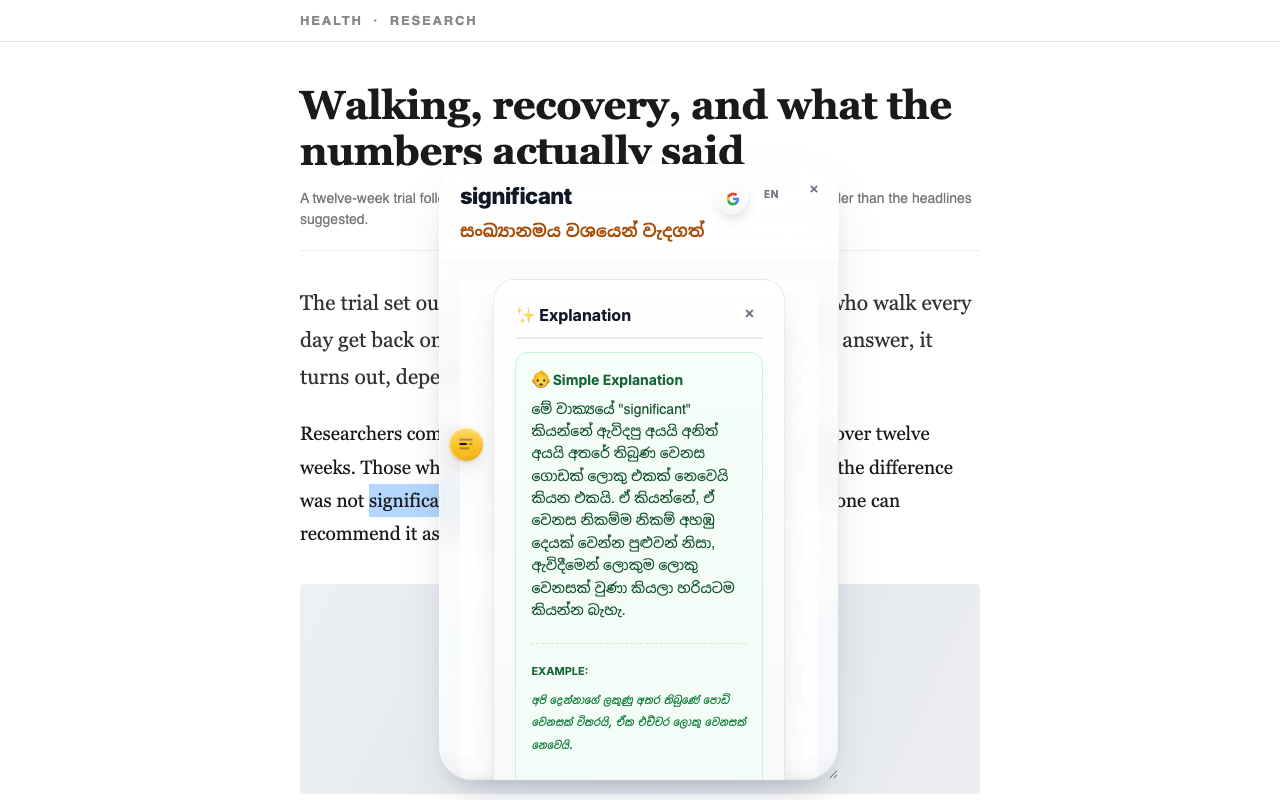
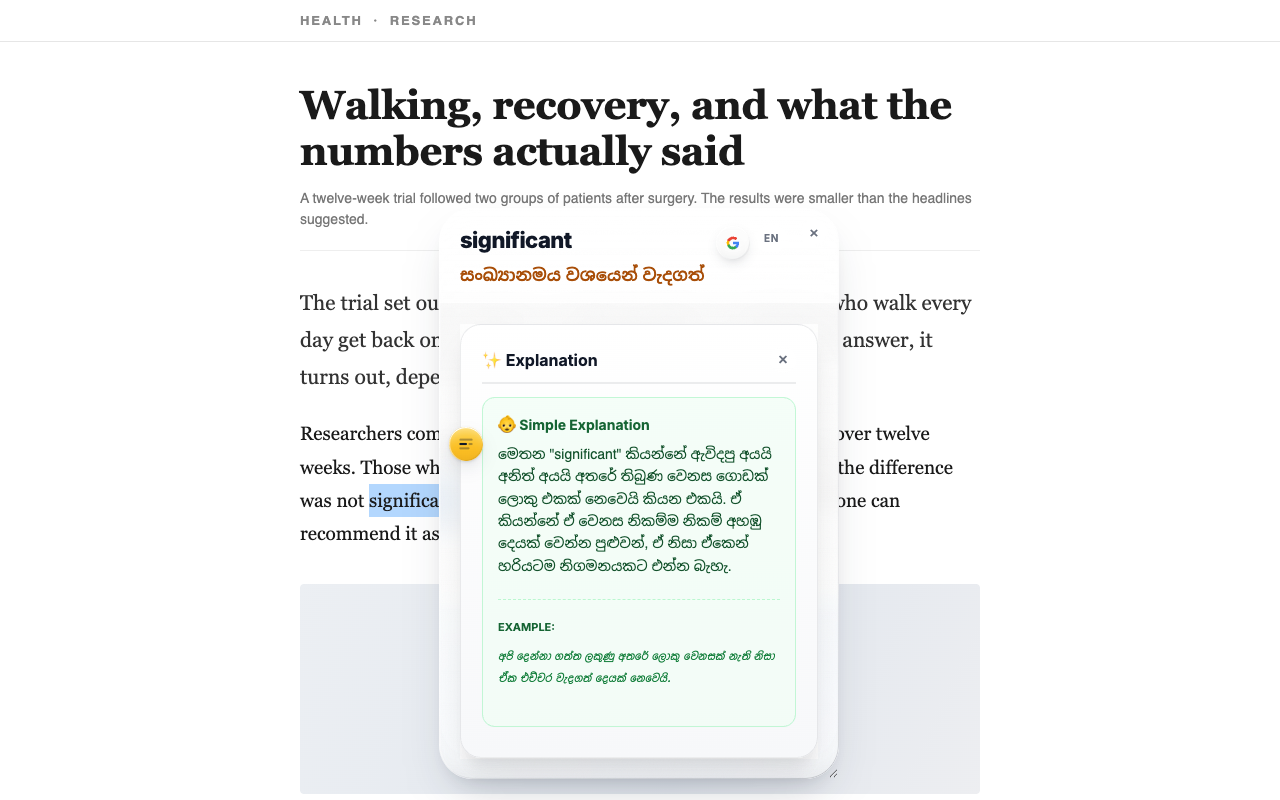
Swap the re-shot Simple panel into the store five
The Sinhala Simple panel now runs at a readable measure — both panel fixes,
the light veil and the full-width card, in one frame — so it replaces the plain
Sinhala bubble in the upload set. That shot stays in store/ as the alternate.

Also recorded in HANDOFF, from the landing session: their capture rig waited
for the panel to hold 30 characters, and a "Gemini error — UNAVAILABLE" card
cleared that bar, so it reported success on a screenshot of a failure. It
rejects error text now and wants 60 characters. An exit code is not evidence
that a capture shows product output; the frame is.

Claude-Session: https://claude.ai/code/session_01CikyLv6xnYYXhByXnB9e3h

Changed region(s): [[0.375, 0.4375, 0.625, 1.0], [0.3438, 0.2188, 0.6562, 0.4062]]

diff --git a/HANDOFF.md b/HANDOFF.md
@@ -79,6 +79,12 @@ path, first 32 hex digits mapped 0-f → a-p), and the css2 API serves **one var
 every weight**, so saving per weight tripled `fonts/` to 5.3 MB before it was noticed.
 CJK stays remote: those families are megabytes each and every OS ships good ones.
 
+**A capture harness must reject error cards.** The landing session's rig waited for the panel
+to hold more than 30 characters, and a "Gemini error — UNAVAILABLE" card clears that easily —
+it reported success on a screenshot of a failure. It now rejects error, UNAVAILABLE, rate-limit
+and failed-to-load text and wants 60 characters. Worth knowing for any future capture: an exit
+code is not evidence, the frame is. (That 503 also says the free tier is thin.)
+
 **Two bugs the store screenshots found (17 Sep).** Shooting real captures is a check of its
 own: (1) the General/Simple panel opened on `rgba(0,0,0,0.5)` with a blur, so a panel *inside*
 the bubble darkened the milky surface behind it and read as a rendering fault — it is a light
@@ -86,7 +92,7 @@ veil now, and the card is opaque like the search menu; (2) **More and General pr
 everything twice for an English reader** — the templates ask for a block and then "the
 ${langName} version" of it, which is the same text when langName is English. `langVars()` now
 returns `bilingual`, and the second block and the translate step are dropped when it is false.
-Covered by integration assertions in both directions.
+Covered by integration assertions in both directions. A third followed from the re-shoot: the panel card was capped at 400/φ ≈ 247px, so a Sinhala explanation wrapped three words to a line inside a 400px bubble; it takes the bubble's width now.
 
 **How the bubble was measured.** `playwright-core` from `~/Desktop/interactive app/node_modules`
 (Chromium is in `~/Library/Caches/ms-playwright`). New page → `addScriptTag` a `window.chrome`

diff --git a/STORE_LISTING.md b/STORE_LISTING.md
@@ -143,16 +143,14 @@ here; the privacy policy names the same address so the two agree.
   1. `1-english-significant.png` — the lead. The bubble over an article, English: "significant"
      in "the difference was not significant", answered "statistically meaningful".
   2. `2-hindi-significant.png` — the same word and sentence, Hindi.
-  3. `3-sinhala-significant.png` — the same, Sinhala, in the bundled Noto face.
+  3. `5-simple-panel.png` — the Simple panel open in Sinhala, in the bundled Noto face: the
+     panel treatment and a third script in one frame.
   4. `4-more-panel.png` — the More panel open, Hindi: English scenario above, Hindi below.
   5. `screenshot-language.png` — Settings, the language picker mid-search, Tuned and Community.
 
-  1–4 were captured through the unpacked extension with a real key, on a plain article written
-  for the purpose — real model output, nothing staged or edited.
-
-  Also in `store/`: `5-simple-panel.png`, the Simple panel in Sinhala. It proves the scrim fix
-  but was shot before the panel card was widened on 17 Sep, so it shows the old narrow column.
-  Re-shoot it before swapping it in for #3 or #4.
+  All four bubble shots were captured through the unpacked extension with a real key, on a
+  plain article written for the purpose — real model output, nothing staged or edited.
+  `3-sinhala-significant.png` is the alternate: the same word in Sinhala without a panel open.
 
 - [x] Small promo tile, 440×280 — `store/promo-440x280.png`
 
